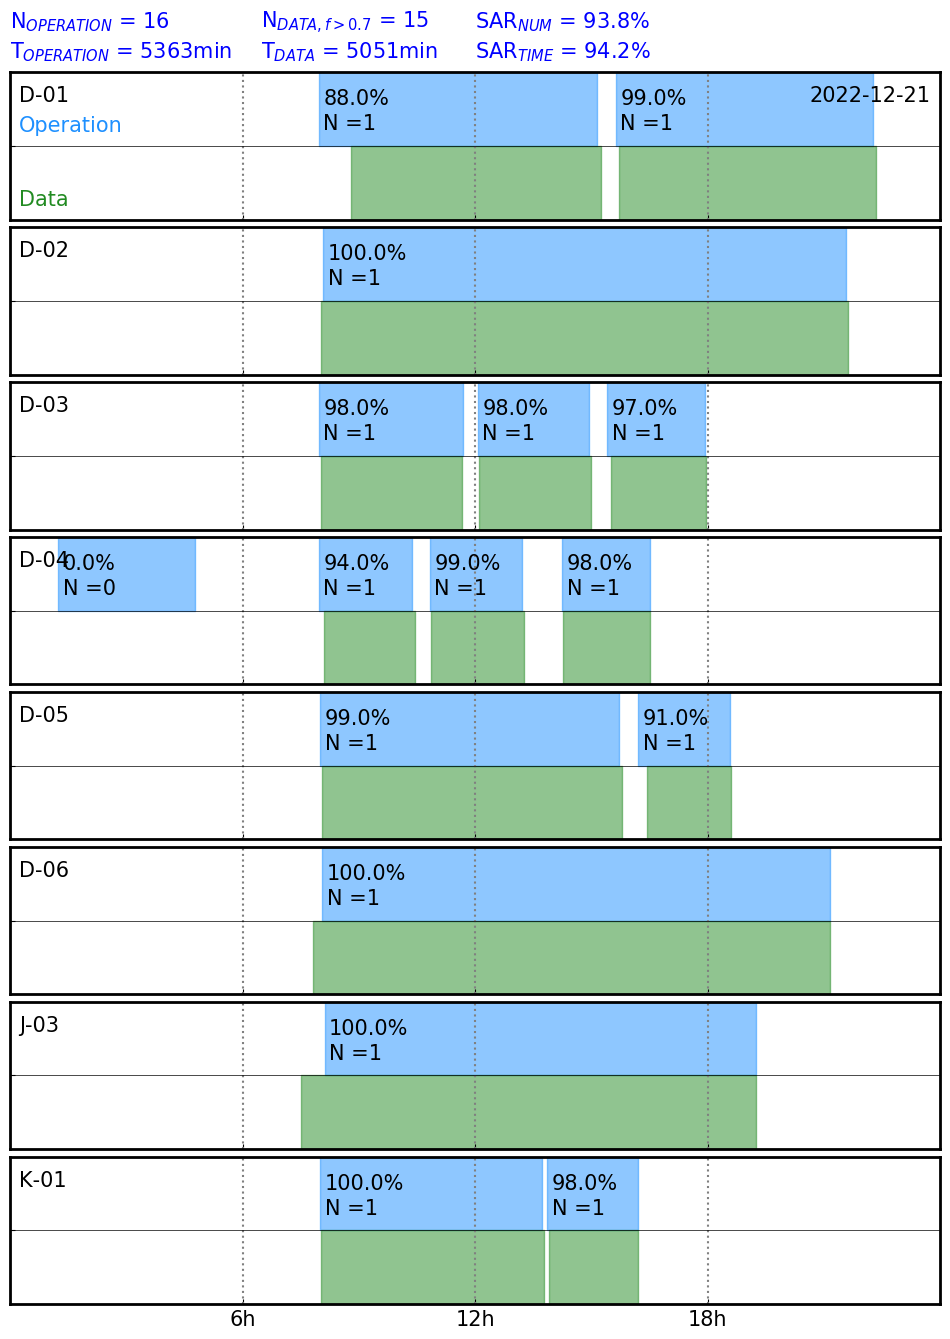
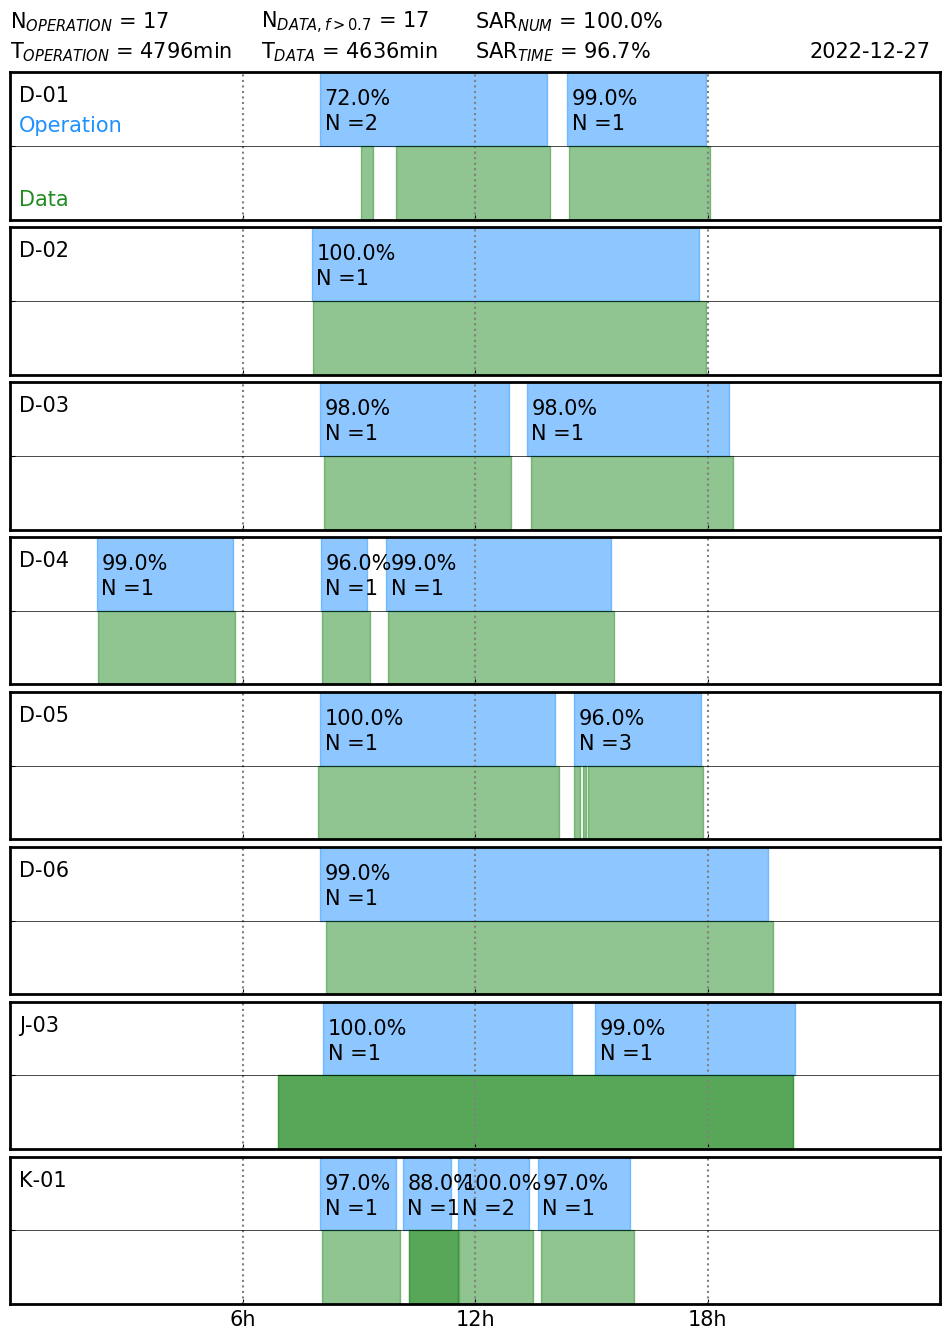
invisible account

diff --git a/op_vital_check_routine.py b/op_vital_check_routine.py
@@ -382,22 +382,23 @@ def signal_collecting_rate(date):
         sarnum = 'SAR$_{NUM}$ = ' + str(np.round(sarnum,1))+'%'
         sartime = np.sum(dt_time_list)/np.sum(op_time_list) * 100    
         sartime = 'SAR$_{TIME}$ = '+str(np.round(sartime,1))+'%'
-        ac.text(0.0, 1.3+y_text_shift, 'N$_{OPERATION}$ = '+ str(len(op_time_list)), transform=ac.transAxes, ha='left', fontsize=15, color='blue')
-        ac.text(0.0, 1.1+y_text_shift, 'T$_{OPERATION}$ = '+ str(int(np.sum(op_time_list).total_seconds()/60))+'min', transform=ac.transAxes, ha='left', fontsize=15, color='blue')
-        ac.text(0.27, 1.3+y_text_shift, 'N$_{DATA, f>0.7}$ = '+ str(len(np.where(dt_time_list/op_time_list>0.7)[0])), transform=ac.transAxes, ha='left', fontsize=15, color='blue')
-        ac.text(0.27, 1.1+y_text_shift, 'T$_{DATA}$ = '+ str(int(np.sum(dt_time_list).total_seconds()/60))+'min', transform=ac.transAxes, ha='left', fontsize=15, color='blue')
-        ac.text(0.5, 1.3+y_text_shift, sarnum, transform=ac.transAxes, ha='left', fontsize=15, color='blue')
-        ac.text(0.5, 1.1+y_text_shift, sartime, transform=ac.transAxes, ha='left', fontsize=15, color='blue')
+        ac.text(0.0, 1.3+y_text_shift, 'N$_{OPERATION}$ = '+ str(len(op_time_list)), transform=ac.transAxes, ha='left', fontsize=15, color='black')
+        ac.text(0.0, 1.1+y_text_shift, 'T$_{OPERATION}$ = '+ str(int(np.sum(op_time_list).total_seconds()/60))+'min', transform=ac.transAxes, ha='left', fontsize=15, color='black')
+        ac.text(0.27, 1.3+y_text_shift, 'N$_{DATA, f>0.7}$ = '+ str(len(np.where(dt_time_list/op_time_list>0.7)[0])), transform=ac.transAxes, ha='left', fontsize=15, color='black')
+        ac.text(0.27, 1.1+y_text_shift, 'T$_{DATA}$ = '+ str(int(np.sum(dt_time_list).total_seconds()/60))+'min', transform=ac.transAxes, ha='left', fontsize=15, color='black')
+        ac.text(0.5, 1.3+y_text_shift, sarnum, transform=ac.transAxes, ha='left', fontsize=15, color='black')
+        ac.text(0.5, 1.1+y_text_shift, sartime, transform=ac.transAxes, ha='left', fontsize=15, color='black')
+        ac.text(0.86, 1.1+y_text_shift, str((datetime.datetime.now() - datetime.timedelta(days=1)).date()) , transform=ac.transAxes, ha='left', fontsize=15, color='black')
     
     
-    ac.text(0.99, 0.8+y_text_shift, datestr, transform=ac.transAxes, ha='right', fontsize=15)
+#    ac.text(0.99, 0.8+y_text_shift, datestr, transform=ac.transAxes, ha='right', fontsize=15)
     ac.text(0.01, 0.6+y_text_shift, 'Operation', transform=ac.transAxes, ha='left', fontsize=15, color='dodgerblue')
     ac.text(0.01, 0.1+y_text_shift, 'Data', transform=ac.transAxes, ha='left', fontsize=15, color='forestgreen')
     ac.text(1, 1.3+y_text_shift, errstr1, transform=ac.transAxes, ha='right', fontsize=15, color='red')
     ac.text(1, 1.1+y_text_shift, errstr2, transform=ac.transAxes, ha='right', fontsize=15, color='red')
     ac.set_xticklabels(['6h','12h','18h'])
 
-    plt.savefig("/mnt/md0/routine/routine_image/Daily_OP.png", bbox_inches='tight', transparent=False)
+    plt.savefig("/mnt/md0/routine/daily_collection_mail/routine_image/Daily_OP.png", bbox_inches='tight', transparent=False)
     plt.savefig(f"/mnt/md0/routine/op_check_img/{date}.png", bbox_inches='tight', transparent=False)
 
 op_date = datetime.datetime.now().date() - datetime.timedelta(days=1)

diff --git a/rosette_vital_status.py b/rosette_vital_status.py
@@ -5,6 +5,11 @@ from email.mime.multipart import MIMEMultipart
 from email.mime.text      import MIMEText
 from email.mime.image     import MIMEImage
 import datetime
+import sys
+sys.path.append('/mnt/md0/routine/account_info/')
+import account_info
+
+id, pw = account_info.jinyoungbot0308()
 curt_day = (datetime.datetime.now() - datetime.timedelta(days=1)).date()
 
 class EmailHTMLImageContent:
@@ -33,8 +38,8 @@ class EmailHTMLImageContent:
         self.msg.attach(mime_img)
         
         assert template.template.find("cid:my_image2") >= 0, 'template must have cid for embedded image.'
-        assert os.path.isfile("/mnt/md0/routine/routine_image/SAR_Calc.png"), 'image file does not exist'
-        with open('/mnt/md0/routine/routine_image/SAR_Calc.png', 'rb') as img_file2:
+        assert os.path.isfile("/mnt/md0/routine/daily_collection_mail/routine_image/Table_description.png"), 'image file does not exist'
+        with open('/mnt/md0/routine/daily_collection_mail/routine_image/Table_description.png', 'rb') as img_file2:
             mime_img = MIMEImage(img_file2.read())
             mime_img.add_header('Content-ID', '<' + 'my_image2' + '>')
         self.msg.attach(mime_img)
@@ -57,7 +62,7 @@ class EmailSender:
         self.ss = smtplib.SMTP(host=str_host, port=num_port)
         # SMTP인증이 필요하면 아래 주석을 해제
         self.ss.starttls() # TLS(Transport Layer Security) 시작
-        self.ss.login("jinyoungbot0308@gmail.com", "rvaklesfohymcobn") # 메일서버에 연결한 계정과 비밀번호
+        self.ss.login(id, pw) # 메일서버에 연결한 계정과 비밀번호
 
     def send_message(self, emailContent, str_from_email_addr, str_to_eamil_addrs):
         """e메일을 발송한다 """
@@ -76,13 +81,13 @@ template = Template("""<html>
                             </body>
                         </html>""")
 template_params       = {'NAME':'Signal house'}
-str_image_file_name   = "/mnt/md0/routine/routine_image/Daily_OP.png"
+str_image_file_name   = "/mnt/md0/routine/daily_collection_mail/routine_image/Daily_OP.png"
 str_cid_name          = 'my_image1'
 emailHTMLImageContent = EmailHTMLImageContent(str_subject, str_image_file_name, str_cid_name, template, template_params)
 
 str_from_email_addr = "jinyoungbot0308@gmail.com" # 발신자
-#str_to_eamil_addrs  = ["jinyoungkim0308@gmail.com", "zephyrus02@gmail.com", "dien.eaststar@gmail.com", "bapor.km.kang@gmail.com", "wjdgns03125@gmail.com", "hskim.bme@gmail.com", "shkimans@gmail.com "] # 수신자리스트
-str_to_eamil_addrs = ["jinyoungkim0308@gmail.com", "zephyrus02@gmail.com"]
+# str_to_eamil_addrs  = ["jinyoungkim0308@gmail.com", "zephyrus02@gmail.com", "dien.eaststar@gmail.com", "bapor.km.kang@gmail.com", "wjdgns03125@gmail.com", "hskim.bme@gmail.com", "shkimans@gmail.com "] # 수신자리스트
+str_to_eamil_addrs = ["jinyoungkim0308@gmail.com"]
 emailSender.send_message(emailHTMLImageContent, str_from_email_addr, str_to_eamil_addrs)
 
 

diff --git a/README.md b/README.md
@@ -1,5 +1,4 @@
 # Daily_signal_collection_check
-===============================
 
 Image example
 ![Alt text](./routine_image/Daily_OP.png)
